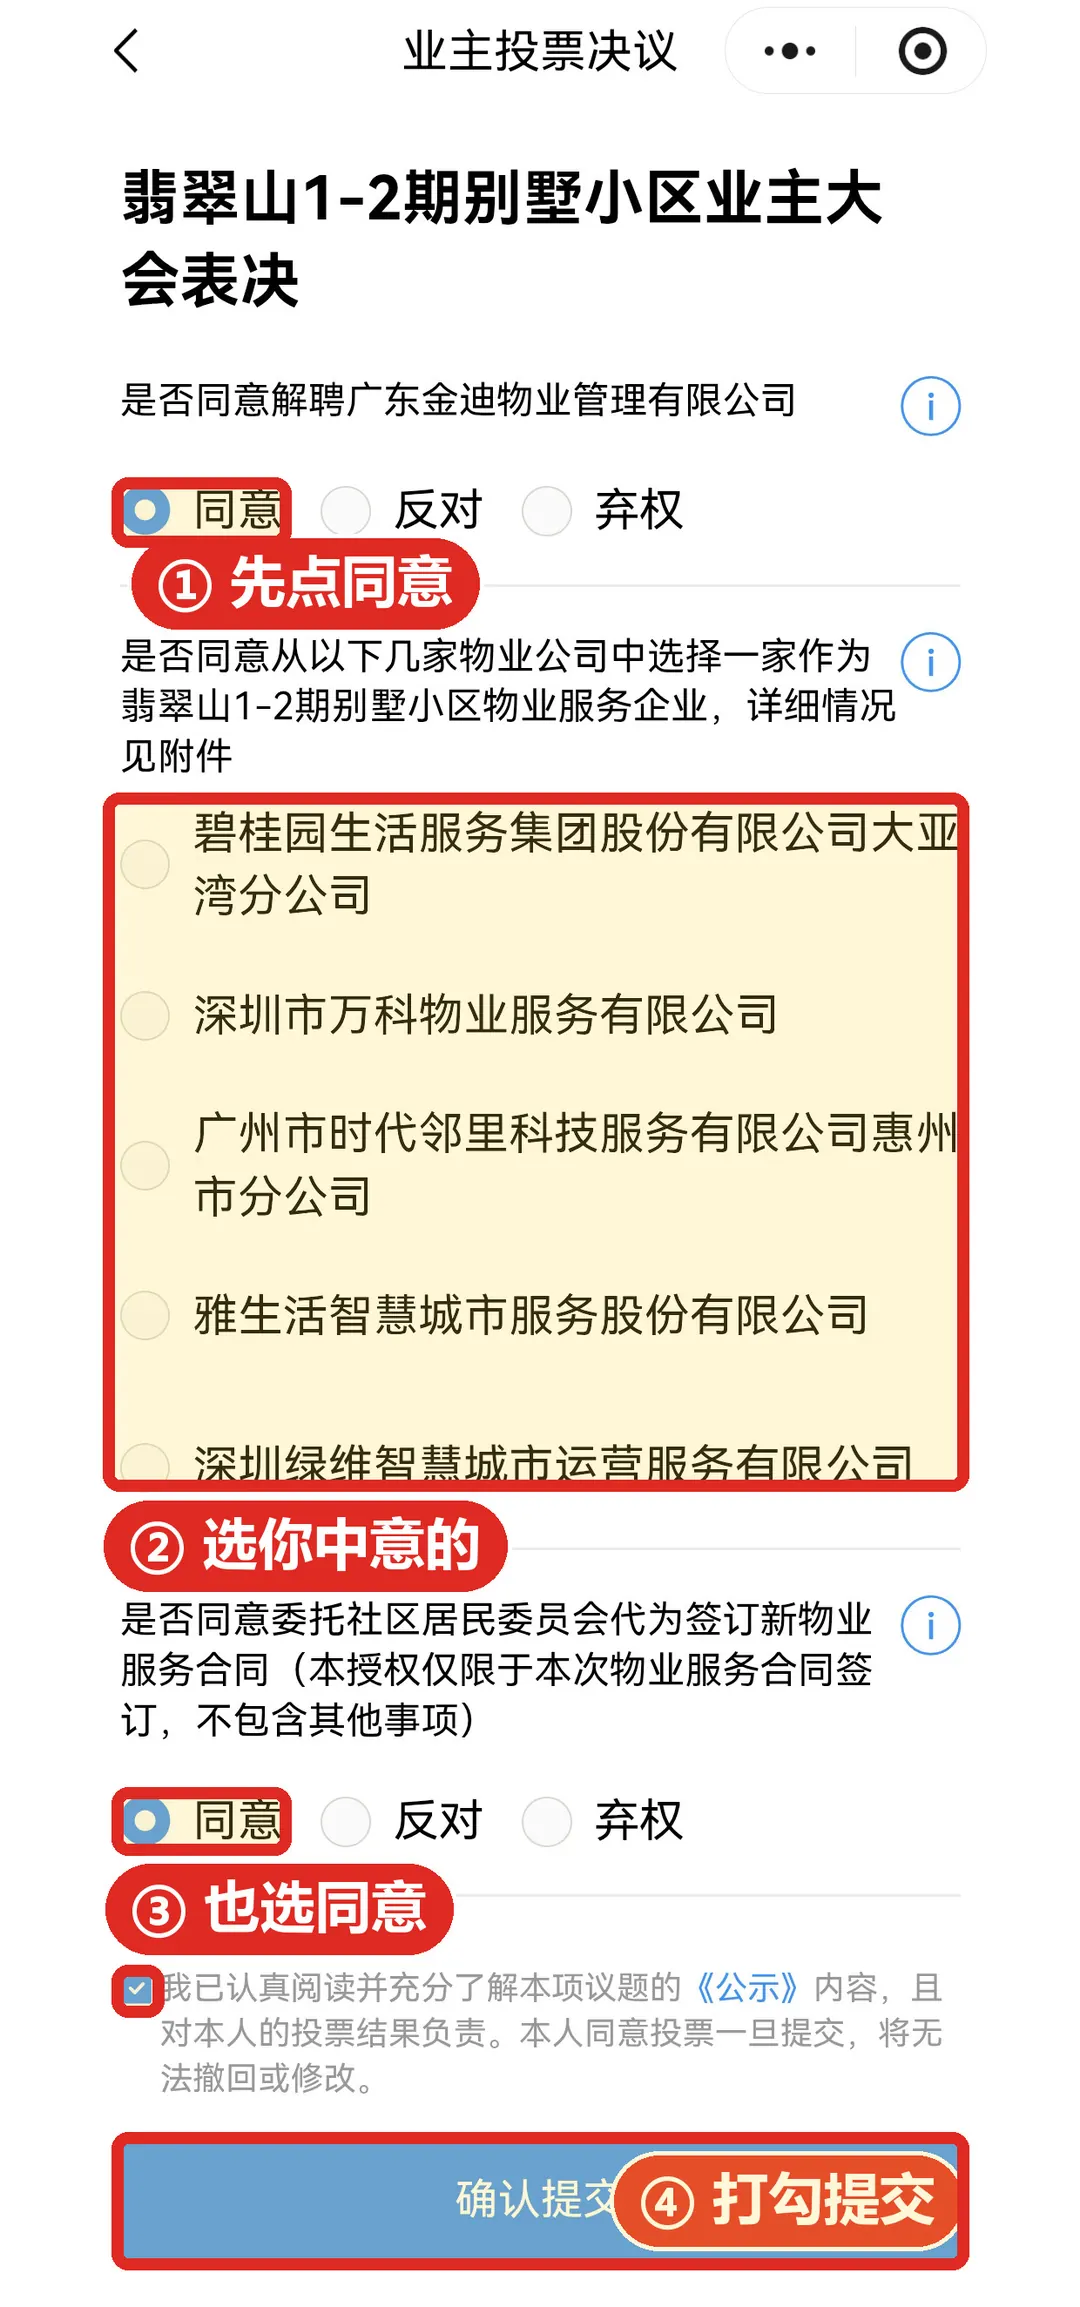
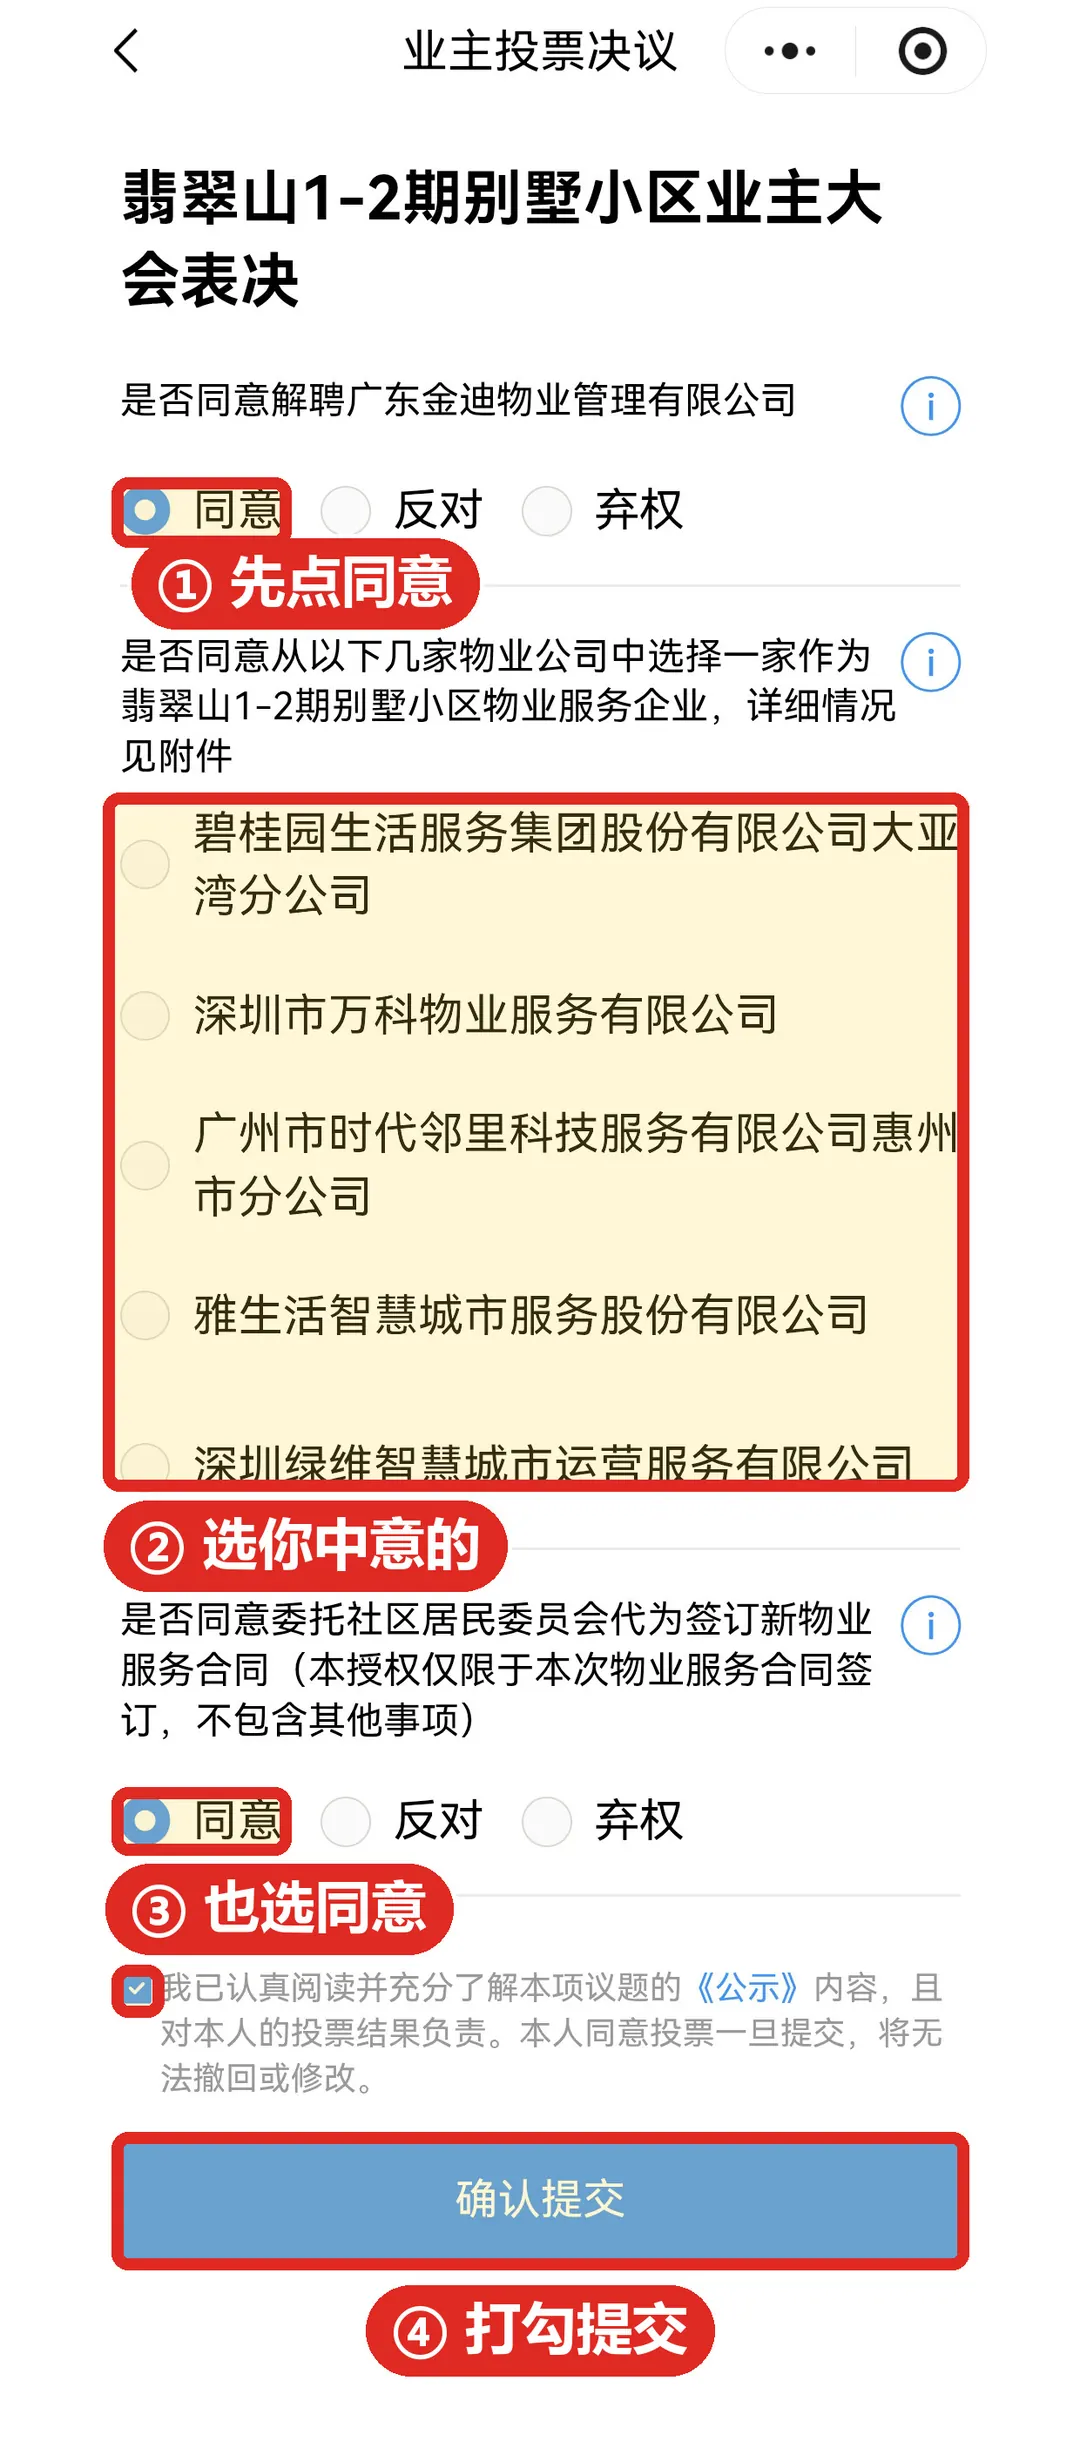
Guide v1.23: move the 4th label below the submit button (white strip added to the screenshot)

diff --git a/guide/index.html b/guide/index.html
@@ -926,8 +926,8 @@
       </div>
       <div class="shot-box">
         <picture>
-          <source type="image/webp" srcset="13_业主投票决议页_第一题先选同意.webp?v=2">
-          <img class="shot" loading="lazy" decoding="async" src="13_业主投票决议页_第一题先选同意.jpg?v=2" alt="投票表单：四个红框依次标出第一题选「同意」、第二题挑一家新物业、第三题也选「同意」，以及勾选承诺后点「确认提交」" width="1080" height="2307">
+          <source type="image/webp" srcset="13_业主投票决议页_第一题先选同意.webp?v=3">
+          <img class="shot" loading="lazy" decoding="async" src="13_业主投票决议页_第一题先选同意.jpg?v=3" alt="投票表单：四个红框依次标出第一题选「同意」、第二题挑一家新物业、第三题也选「同意」，以及勾选承诺后点「确认提交」" width="1080" height="2455">
         </picture>
         <span class="zoom-hint">点击放大</span>
       </div>
@@ -1033,7 +1033,7 @@
 
   <footer class="foot">
     <p>
-      本页由小区业主自行整理，仅在本小区业主范围内传阅，<b>不是政府或粤省事官方发布的文件</b>。截图采集于 <b>2026 年 9 月 14 日至 15 日</b>（指引版本 <b>v1.22</b>），实际界面以粤省事当前显示为准。截图中的个人身份信息已作遮蔽处理，<b>红色方框与箭头为后加的操作指引标记</b>，非平台原有界面元素。
+      本页由小区业主自行整理，仅在本小区业主范围内传阅，<b>不是政府或粤省事官方发布的文件</b>。截图采集于 <b>2026 年 9 月 14 日至 15 日</b>（指引版本 <b>v1.23</b>），实际界面以粤省事当前显示为准。截图中的个人身份信息已作遮蔽处理，<b>红色方框与箭头为后加的操作指引标记</b>，非平台原有界面元素。
     </p>
   </footer>
 
